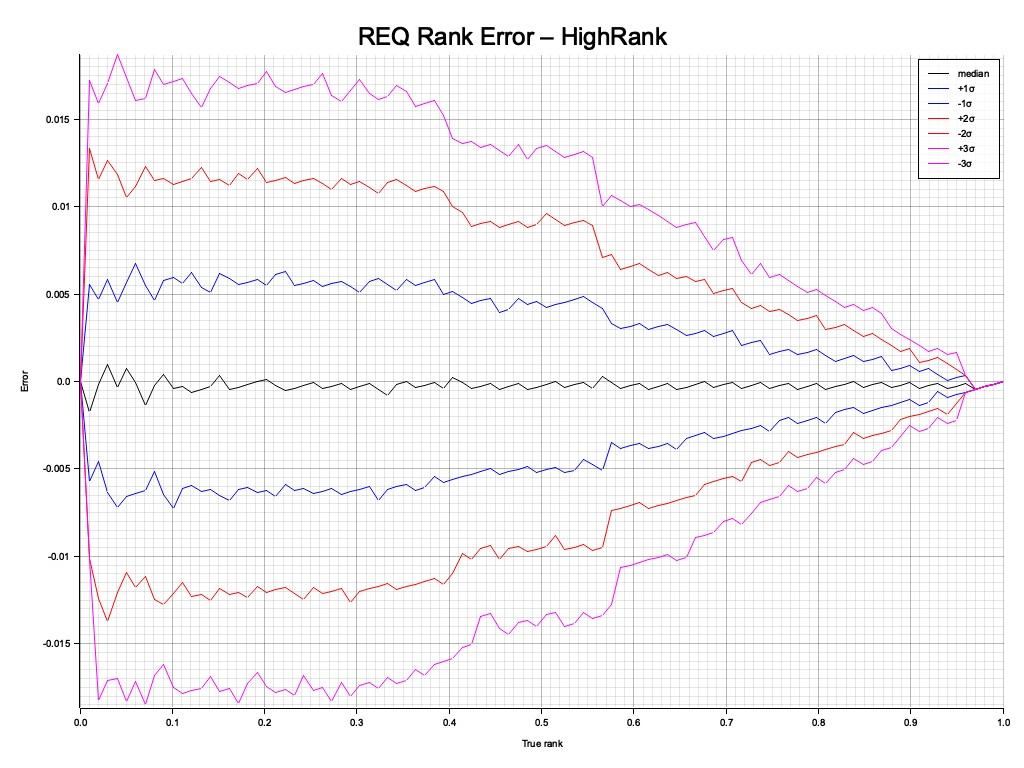
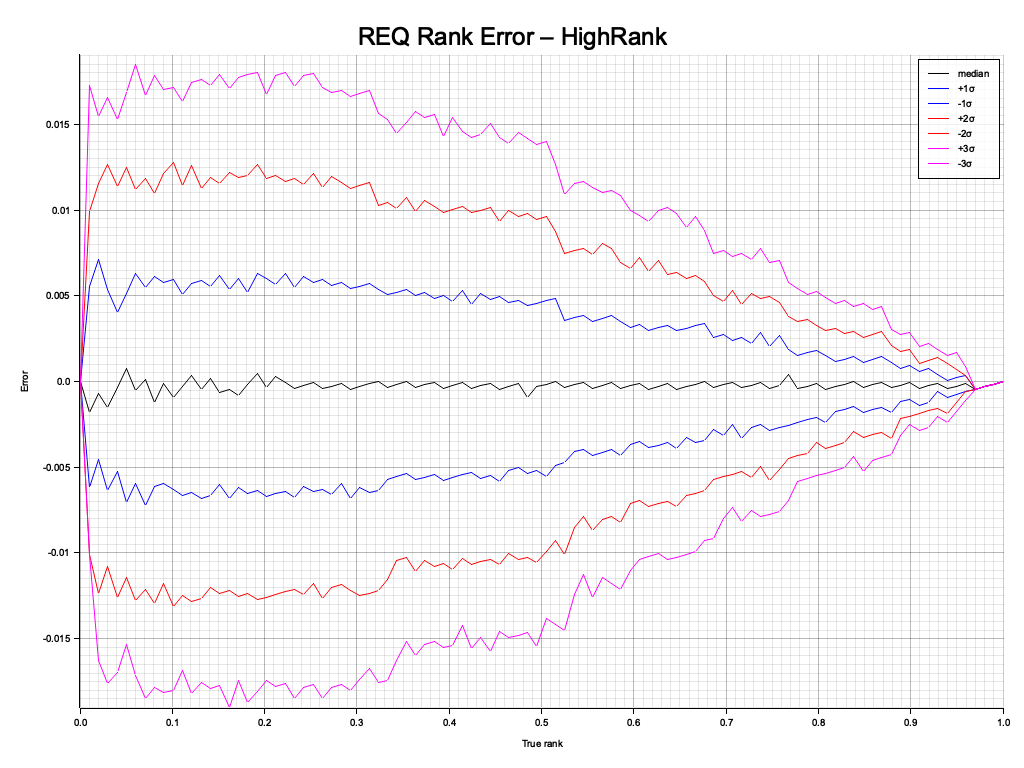
fix: align compactor section-doubling schedule with C++ reference (#17)
* fix: align compactor section-doubling schedule with C++ reference

ensure_enough_sections had a spurious .saturating_sub(1) on the
num_sections threshold that triggered doubling one compaction early
at every level. The Apache C++ reference
(req_compactor_impl.hpp:304) uses

    state_ >= 1ULL << (num_sections_ - 1)

which matches the paper's schedule (double sections after 2^(s-1)
compactions). The Rust version was evaluating

    state >= (1 << (num_sections - 1)).saturating_sub(1)

so it fired at 3 instead of 4, at 31 instead of 32, etc. This shrank
section_size one compaction earlier at every threshold, reducing the
effective k at mid-levels and widening the error bands.

Changed region(s): [[0.0312, 0.0625, 0.9688, 0.9375]]

diff --git a/src/compactor.rs b/src/compactor.rs
@@ -79,7 +79,7 @@ where
 
             rank_accuracy,
             section_size_raw,
-            coin: rand::random::<bool>(),
+            coin: false,
         }
     }
 
@@ -283,7 +283,8 @@ where
 
         const MIN_K: u32 = 4; // matches datasketches-cpp
 
-        if self.state >= (1u64 << (self.num_sections - 1)).saturating_sub(1) && ne >= MIN_K {
+        if self.num_sections <= 64 && self.state >= (1u64 << (self.num_sections - 1)) && ne >= MIN_K
+        {
             self.section_size_raw = ssr;
             self.section_size = ne;
             self.num_sections <<= 1; // Double the sections